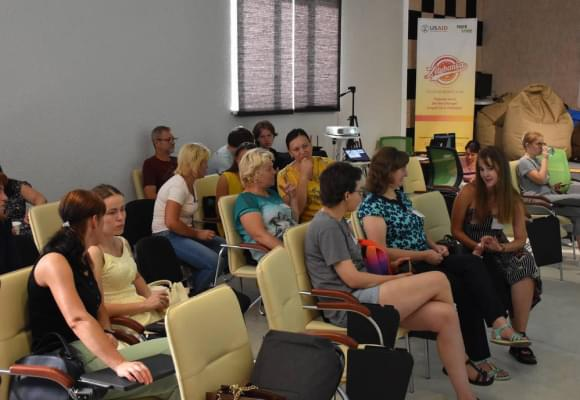
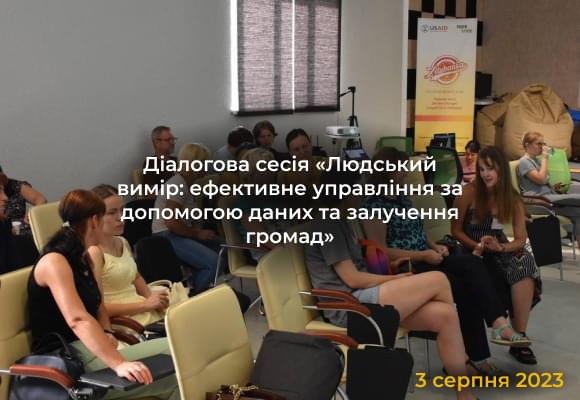
v0

Changed region(s): [[0.1862, 0.3, 0.8069, 0.69], [0.7138, 0.9, 0.9931, 0.99]]

diff --git a/src/styles/template-styles/event.scss b/src/styles/template-styles/event.scss
@@ -1,0 +1,229 @@
+.btn-reset {
+  border: none;
+  background-color: transparent;
+  cursor: pointer;
+  padding: 0;
+
+  &:hover,
+  &:focus {
+    outline: none;
+    border: none;
+  }
+}
+
+.btn-main {
+  display: flex;
+  justify-content: center;
+  align-items: center;
+  width: 241px;
+  height: 56px;
+  padding: 16px 24px;
+  border-radius: 8px;
+  color: white;
+  font-size: 16px;
+  font-weight: 600;
+  background-color: #f2b800;
+  border: none;
+  cursor: pointer;
+
+  & img {
+    margin-left: 8px;
+  }
+}
+
+.btn-inverse {
+  @extend .btn-main;
+  color: #0d0d0d;
+  background-color: white;
+  border: 1px solid #f2b800;
+}
+
+.event-title {
+  font-size: 28px;
+  font-weight: 900;
+  color: #f2b800;
+  margin-bottom: 24px;
+
+  @media screen and (min-width: 768px) {
+    font-size: 24px;
+    margin-bottom: 16px;
+  }
+
+  
+}
+
+.event-date {
+  font-size: 20px;
+  font-weight: 400;
+  color: #0d0d0d;
+  margin-bottom: 16px;
+
+  @media screen and (min-width: 768px) {
+    font-size: 16px;
+    margin-bottom: 24px;
+  }
+  @media screen and (min-width: 1200px) {
+    font-size: 33px;
+  }
+}
+
+.event-content {
+  margin-bottom: 16px;
+
+  & a {
+    text-decoration: underline;
+  }
+
+  @media screen and (min-width: 768px) {
+    margin-bottom: 24px;
+  }
+
+  @media screen and (min-width: 768px) {
+    margin-bottom: 33px;
+  }
+
+  &.clamp {
+    @media screen and (max-width: 767.98px) {
+      -webkit-line-clamp: 7;
+      display: -webkit-box;
+      -webkit-box-orient: vertical;
+      overflow: hidden;
+    }
+  }
+}
+
+.event-text {
+  margin-bottom: 1em;
+}
+
+
+
+.event-btn-main {
+  @extend .btn-main;
+}
+
+.event-btn-inverse {
+  @extend .btn-inverse;
+  margin-bottom: 16px;
+
+  @media screen and (min-width: 768px) {
+    display: none;
+  }
+}
+
+.event-btn-wrapper {
+  display: flex;
+  flex-direction: column;
+  align-items: center;
+  margin-bottom: 16px;
+
+  @media screen and (min-width: 768px){
+    align-items: flex-start;
+  }
+  @media screen and (min-width: 768px){
+    margin-bottom: 64px;
+  }
+  @media screen and (min-width: 1200px){
+    margin-bottom: 80px;
+  }
+
+}
+
+.gallery-wrapper {
+  margin-bottom: 9px;
+
+  @media screen and (min-width: 768px) {
+    display: flex;
+    align-items: flex-end;
+    margin-top: 40px;
+    gap: 20px;
+    margin-bottom: 48px;
+  }
+  @media screen and (min-width: 992px){
+    margin-bottom: 64px;
+  }
+}
+
+.gallery-sm {
+  display: none;
+  outline: 1px solid tomato;
+
+
+
+  @media screen and (min-width: 768px) {
+    display: block;
+    max-width: 160px;
+    height: 200px;
+  }
+  @media screen and (max-width: 1199.98px){
+    &.left-1, &.right-1{
+      display: none;
+    }
+  }
+  @media screen and (min-width: 1200px) {
+    max-width: 240px;
+    height: 180px;
+
+  }
+}
+
+.gallery-lg {
+  height: 400px;
+  outline: 1px solid tomato;
+
+  @media screen and (min-width: 768px) {
+    width: 343px;
+    height: 318px;
+  }
+  @media screen and (min-width: 992px) {
+    width: 448px;
+    height: 360px;
+  }
+  @media screen and (min-width: 1200px) {
+    width: 778px;
+    height: 560px;
+  }
+}
+
+.gallery-img{
+  object-fit: cover;
+  width: 100%;
+  height: 100%;
+}
+
+.gallery-nav {
+  display: flex;
+  justify-content: space-around;
+  align-items: center;
+
+  @media screen and (min-width: 768px) {
+    justify-content: space-between;
+  }
+
+  @media screen and (min-width: 1200px){
+    width: 1200px;
+    padding: 0 10px;
+  }
+}
+
+.nav-btn {
+  @extend .btn-reset;
+}
+
+.gallery-arrow {
+  width: 86px;
+  height: 28px;
+
+  @media screen and (min-width: 768px) {
+    width: 180px;
+    height: 59px;
+  }
+}
+
+.gallery-navdots {
+  width: 62px;
+  height: 80px;
+
+  @media screen and (min-width: 768px) {
+  }
+}

diff --git a/assets/styles/template-styles/event.css b/assets/styles/template-styles/event.css
@@ -1,0 +1,1 @@
+.btn-reset,.nav-btn{border:none;background-color:rgba(0,0,0,0);cursor:pointer;padding:0}.btn-reset:hover,.nav-btn:hover,.btn-reset:focus,.nav-btn:focus{outline:none;border:none}.btn-main,.event-btn-main,.btn-inverse,.event-btn-inverse{display:-webkit-box;display:-ms-flexbox;display:flex;-webkit-box-pack:center;-ms-flex-pack:center;justify-content:center;-webkit-box-align:center;-ms-flex-align:center;align-items:center;width:241px;height:56px;padding:16px 24px;border-radius:8px;color:#fff;font-size:16px;font-weight:600;background-color:#f2b800;border:none;cursor:pointer}.btn-main img,.event-btn-main img,.btn-inverse img,.event-btn-inverse img{margin-left:8px}.btn-inverse,.event-btn-inverse{color:#0d0d0d;background-color:#fff;border:1px solid #f2b800}.event-title{font-size:28px;font-weight:900;color:#f2b800;margin-bottom:24px}@media screen and (min-width: 768px){.event-title{font-size:24px;margin-bottom:16px}}.event-date{font-size:20px;font-weight:400;color:#0d0d0d;margin-bottom:16px}@media screen and (min-width: 768px){.event-date{font-size:16px;margin-bottom:24px}}@media screen and (min-width: 1200px){.event-date{font-size:33px}}.event-content{margin-bottom:16px}.event-content a{text-decoration:underline}@media screen and (min-width: 768px){.event-content{margin-bottom:24px}}@media screen and (min-width: 768px){.event-content{margin-bottom:33px}}@media screen and (max-width: 767.98px){.event-content.clamp{-webkit-line-clamp:7;display:-webkit-box;-webkit-box-orient:vertical;overflow:hidden}}.event-text{margin-bottom:1em}.event-btn-inverse{margin-bottom:16px}@media screen and (min-width: 768px){.event-btn-inverse{display:none}}.event-btn-wrapper{display:-webkit-box;display:-ms-flexbox;display:flex;-webkit-box-orient:vertical;-webkit-box-direction:normal;-ms-flex-direction:column;flex-direction:column;-webkit-box-align:center;-ms-flex-align:center;align-items:center;margin-bottom:16px}@media screen and (min-width: 768px){.event-btn-wrapper{-webkit-box-align:start;-ms-flex-align:start;align-items:flex-start}}@media screen and (min-width: 768px){.event-btn-wrapper{margin-bottom:64px}}@media screen and (min-width: 1200px){.event-btn-wrapper{margin-bottom:80px}}.gallery-wrapper{margin-bottom:9px}@media screen and (min-width: 768px){.gallery-wrapper{display:-webkit-box;display:-ms-flexbox;display:flex;-webkit-box-align:end;-ms-flex-align:end;align-items:flex-end;margin-top:40px;gap:20px;margin-bottom:48px}}@media screen and (min-width: 992px){.gallery-wrapper{margin-bottom:64px}}.gallery-sm{display:none;outline:1px solid tomato}@media screen and (min-width: 768px){.gallery-sm{display:block;max-width:160px;height:200px}}@media screen and (max-width: 1199.98px){.gallery-sm.left-1,.gallery-sm.right-1{display:none}}@media screen and (min-width: 1200px){.gallery-sm{max-width:240px;height:180px}}.gallery-lg{height:400px;outline:1px solid tomato}@media screen and (min-width: 768px){.gallery-lg{width:343px;height:318px}}@media screen and (min-width: 992px){.gallery-lg{width:448px;height:360px}}@media screen and (min-width: 1200px){.gallery-lg{width:778px;height:560px}}.gallery-img{-o-object-fit:cover;object-fit:cover;width:100%;height:100%}.gallery-nav{display:-webkit-box;display:-ms-flexbox;display:flex;-ms-flex-pack:distribute;justify-content:space-around;-webkit-box-align:center;-ms-flex-align:center;align-items:center}@media screen and (min-width: 768px){.gallery-nav{-webkit-box-pack:justify;-ms-flex-pack:justify;justify-content:space-between}}@media screen and (min-width: 1200px){.gallery-nav{width:1200px;padding:0 10px}}.gallery-arrow{width:86px;height:28px}@media screen and (min-width: 768px){.gallery-arrow{width:180px;height:59px}}.gallery-navdots{width:62px;height:80px}

diff --git a/assets/styles/template-styles/events copy.css b/assets/styles/template-styles/events copy.css
@@ -1,0 +1,1 @@
+.title-wraprer{display:-webkit-box;display:-ms-flexbox;display:flex;-webkit-box-align:center;-ms-flex-align:center;align-items:center;margin-bottom:24px}@media screen and (min-width: 768px){.title-wraprer{margin-bottom:48px}}@media screen and (min-width: 1200px){.title-wraprer{margin-bottom:56px}}.calendar-link{margin:0 9px;min-width:54px}@media screen and (min-width: 768px){.calendar-link{margin:0 0 0 24px}}.calendar-icon{width:54px;height:54px}.events-title{font-size:28px;color:#f2b800;font-weight:900}@media screen and (min-width: 768px){.events-title{font-size:32px}}@media screen and (min-width: 1200px){.events-title{font-size:48px}}.event-service{display:-webkit-box;display:-ms-flexbox;display:flex;-webkit-box-pack:right;-ms-flex-pack:right;justify-content:right;margin-bottom:16px}@media screen and (min-width: 768px){.event-service{margin-bottom:32px}}@media screen and (min-width: 992px){.event-service{margin-bottom:16px}}.sort-button{padding:0;background-color:rgba(0,0,0,0);border:none}.event-sort-icon{width:40px;height:30px;right:0}@media screen and (min-width: 768px){.event-sort-icon{width:53px;height:40px}}@media screen and (min-width: 1200px){.event-sort-icon{width:64px;height:48px}}.event-list{display:-webkit-box;display:-ms-flexbox;display:flex;gap:16px;-webkit-box-orient:vertical;-webkit-box-direction:normal;-ms-flex-direction:column;flex-direction:column}@media screen and (min-width: 768px){.event-list{-webkit-box-orient:horizontal;-webkit-box-direction:normal;-ms-flex-direction:row;flex-direction:row;-ms-flex-wrap:wrap;flex-wrap:wrap;gap:32px}}@media screen and (min-width: 1200px){.event-list{-webkit-box-orient:horizontal;-webkit-box-direction:normal;-ms-flex-direction:row;flex-direction:row;-ms-flex-wrap:wrap;flex-wrap:wrap;gap:20px}}@media screen and (min-width: 768px){.event-item{width:336px}}@media screen and (min-width: 992px){.event-item{width:328px}}@media screen and (min-width: 1200px){.event-item{width:580px}}.img-wrapper{position:relative;text-align:center}.event-title{display:block;position:absolute;width:250px;font-size:12px;padding:40px 24px;font-weight:600;color:#fff;top:50%;left:50%;-webkit-transform:translate(-50%, -50%);-ms-transform:translate(-50%, -50%);transform:translate(-50%, -50%);background:radial-gradient(50% 50% at 50% 50%, #0d0d0d 0%, rgba(13, 13, 13, 0.6) 57.81%, rgba(13, 13, 13, 0) 100%)}@media screen and (min-width: 768px){.event-title{font-size:14px}}@media screen and (min-width: 992px){.event-title{width:288px}}@media screen and (min-width: 1200px){.event-title{width:410px;font-size:20px}}.event-date{position:absolute;bottom:0;right:0;font-size:20px;font-weight:600;color:#f2b800;padding:8px}@media screen and (min-width: 768px){.event-date{font-size:14px}}@media screen and (min-width: 1200px){.event-date{font-size:20px}}.paginate-more{display:-webkit-box;display:-ms-flexbox;display:flex;-webkit-box-pack:center;-ms-flex-pack:center;justify-content:center;margin-top:24px}@media screen and (min-width: 768px){.paginate-more{margin-top:48px}}@media screen and (min-width: 1200px){.paginate-more{margin-top:56px}}.paginate-btn{padding:0;border:none;background-color:rgba(0,0,0,0)}@media screen and (min-width: 768px){.paginate-btn{width:173px;height:144px}}

diff --git a/src/scripts/template-scripts/event.js b/src/scripts/template-scripts/event.js
@@ -1,0 +1,8 @@
+console.log('event page');
+const btnMoreRef = document.getElementById('btn-more');
+const textContentRef = document.querySelector('.event-content')
+
+btnMoreRef.addEventListener('click', e => {
+    textContentRef.classList. toggle('clamp');
+    textContentRef.scrollIntoView({behavior: 'smooth'});
+})

diff --git a/assets/scripts/template-scripts/event.js b/assets/scripts/template-scripts/event.js
@@ -1,0 +1,1 @@
+console.log("event page");const btnMoreRef=document.getElementById("btn-more"),textContentRef=document.querySelector(".event-content");btnMoreRef.addEventListener("click",(e=>{textContentRef.classList.toggle("clamp"),textContentRef.scrollIntoView({behavior:"smooth"})}));

diff --git a/assets/scripts/template-scripts/events copy.js b/assets/scripts/template-scripts/events copy.js
@@ -1,0 +1,1 @@
+console.log("events page");

diff --git a/templates/event.php b/templates/event.php
@@ -1,0 +1,68 @@
+<?php
+/*
+Template Name: event
+*/
+get_header();
+?>
+<section class="section">
+    <div class="container">
+        <div class="event">
+            <h1 class="event-title">Діалогова сесія «Людський вимір: ефективне управління за допомогою даних та залучення громад»</h1>
+            <p class="event-date">3 серпня 2023</p>
+            <div class="event-content clamp ">
+                <p class="event-text">Протягом серпня на базі Молодіжний центр "Здибанка" відбулася друга діалогова сесія у рамках проєкту «Людський вимір: ефективне управління за допомогою даних та залучення громад», який втілюється «Міжнародною організацією з міграції» IOM Ukraine в партнерстві з «Західноукраїнським ресурсним центром» та фінансується Посольством Канади.</p>
+                <p class="event-text">У другій діалоговій сесії взяло участь 30 представників/ць громади, в т.ч. місцева влада, фахівці сфери освіти та культури, молодь, ВПО, активна громадськість та представники громадських організацій.</p>
+                <p class="event-text">Діалогова сесія була насичена жвавими дискусіями, однак вдалося знайти спільне рішення та підтвердити зацікавленість громади у реалізації проєкту щодо встановлення інформаційно-вказівних та дорожніх знаків.</p>
+                <p class="event-text">За підсумками діалогових сесій та консультацій тренерів, робочою групою розроблено та подано до розгляду проєктна заявка для отримання грантових коштів.</p>
+                <p class="event-text">Протягом вересня на нас чекає навчання з проєктного менеджементу та захист проєкту, тож слідкуйте за нашими новинами.</p>
+                <p class="event-text">Кожна людина є важливою у процесі розвитку громади! Наше майбутнє у наших руках!</p>
+                <p class="event-text">Дякуємо Збройним силам України за можливість жити й працювати під мирним небом!</p>
+            </div>
+            <div class="event-btn-wrapper">
+                <button id='btn-more' type='button' class="event-btn-inverse">Показати більше
+                    <img src="<?php bloginfo('template_url'); ?>/assets/images/icon-arrow-down.svg" alt="arrow down" width="20" height="20">
+                </button>
+                <button type='button' class="event-btn-main">Додати в календар
+                    <img src="<?php bloginfo('template_url'); ?>/assets/images/icon_round-plus.svg" alt="plus" width="20" height="20">
+                </button>
+            </div>
+            <div class="gallery">
+                <div class="gallery-wrapper">
+                    <div class="gallery-sm left-1">
+                        <img src="<?php bloginfo('template_url'); ?>/assets/images/event.jpg" class='gallery-img' alt="photo" >
+                    </div>
+                    <div class="gallery-sm left">
+                        <img src="<?php bloginfo('template_url'); ?>/assets/images/event.jpg" class='gallery-img' alt="photo" >
+                    </div>
+                    <div class="gallery-lg center">
+                        <img src="<?php bloginfo('template_url'); ?>/assets/images/event.jpg" class='gallery-img' alt="photo" >
+                    </div>
+                    <div class="gallery-sm right">
+                        <img src="<?php bloginfo('template_url'); ?>/assets/images/event.jpg" class='gallery-img' alt="photo" >
+                    </div>
+                    <div class="gallery-sm right-1">
+                        <img src="<?php bloginfo('template_url'); ?>/assets/images/event.jpg" class='gallery-img' alt="photo" >
+                    </div>
+                </div>
+                <div class="gallery-paginate">
+                    <div class="gallery-nav">
+                        <button type='button' class="nav-btn">
+                            <img src="<?php bloginfo('template_url'); ?>/assets/images/previous-btn.svg" class='gallery-arrow' alt="arrow left">
+                        </button>
+                        <button type='button' class="nav-btn">
+                            <img src="<?php bloginfo('template_url'); ?>/assets/images/nav-dots.svg" class='gallery-navdots' alt="nav dots">
+                        </button>
+                        <button class="nav-btn" type='button'>
+                            <img src="<?php bloginfo('template_url'); ?>/assets/images/next-btn.svg" class='gallery-arrow' alt="arrow right">
+                        </button>
+
+                    </div>
+                </div>
+            </div>
+        </div>
+    </div>
+</section>
+
+
+
+<?php get_footer(); ?>

diff --git a/functions.php b/functions.php
@@ -45,6 +45,11 @@ function wp_it_volunteers_scripts() {
     wp_enqueue_script( 'events-scripts', get_template_directory_uri() . '/assets/scripts/template-scripts/events.js', array(), false, true );
   }
 
+  if ( is_page_template('templates/event.php') ) {
+    wp_enqueue_style( 'event-style', get_template_directory_uri() . '/assets/styles/template-styles/event.css', array('main') );
+    wp_enqueue_script( 'event-scripts', get_template_directory_uri() . '/assets/scripts/template-scripts/event.js', array(), false, true );
+  }
+
  
 }
 /** add fonts */
